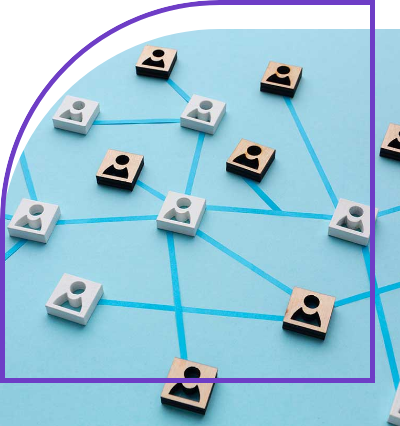
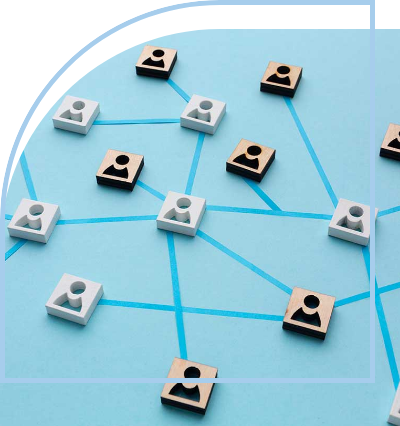
[ADD] Tema 4

Changed region(s): [[0.0, 0.0, 0.96, 0.9155]]

diff --git a/src/views/Tema4.vue b/src/views/Tema4.vue
@@ -11,7 +11,7 @@
       .col-sm-12.col-md-12.col-lg-8(data-aos="zoom-in")
         p Para tener un cliente que siempre esté comprando o consumiendo los productos o servicios de la empresa, esta debe seguir el proceso de atraer y captar para luego fidelizar a los clientes, esta fidelización busca ante todo mantener relaciones duraderas con los clientes. 
         p Promove (2012) indica que la fidelización:
-        .row.bgazulclaro.p-4.mb-4
+        .row.bg-color-9.p-4.mb-4
           .col-1
             i.fas.fa-quote-left.comillamorada
           .col-9
@@ -30,29 +30,29 @@
           template(v-slot:imagen)
             figure
               img(src='@/assets/curso/temas/tema4y5/pc1.png', alt='Texto que describa la imagen')
-          .tarjeta.bgpcmorada.text-white.p-3(x="54%" y="30%" numero="1")
+          .tarjeta.bg-color-10.p-3(x="54%" y="30%" numero="1")
             p.mt-4 Mantener calidad y seriedad en la relación.
-          .tarjeta.bgpcmorada.text-white.p-3(x="74%" y="45%" numero="2")
+          .tarjeta.bg-color-10.p-3(x="74%" y="45%" numero="2")
             p.mt-4 Dar orientación al cliente sobre los procesos, beneficios y ventajas de los productos o servicios.
-          .tarjeta.bgpcmorada.text-white.p-3(x="3%" y="45%" numero="3")
+          .tarjeta.bg-color-10.p-3(x="3%" y="45%" numero="3")
             p.mt-4 Sobre todo, inspirar confianza y respeto en el cliente.
-          .tarjeta.bgpcmorada.text-white.p-3(x="10%" y="25%" numero="4")
+          .tarjeta.bg-color-10.p-3(x="10%" y="25%" numero="4")
             p.mt-4 Mantener una buena impresión en la presentación y movimientos corporales.
-          .tarjeta.bgpcmorada.text-white.p-3(x="42%" y="50%" numero="5")
+          .tarjeta.bg-color-10.p-3(x="42%" y="50%" numero="5")
             p.mt-4 Mantenerse en contacto con ellos.
-          .tarjeta.bgpcmorada.text-white.p-3(x="75%" y="65%" numero="6")
+          .tarjeta.bg-color-10.p-3(x="75%" y="65%" numero="6")
             p.mt-4 Acciones que propicien relaciones duraderas con los clientes.
-          .tarjeta.bgpcmorada.text-white.p-3(x="15%" y="83%" numero="7")
+          .tarjeta.bg-color-10.p-3(x="15%" y="83%" numero="7")
             p.mt-4 Cupones descuento, donde el usuario puede recortar un cupón y obtendrá una rebaja en el precio de algún producto o servicio del establecimiento.
-          .tarjeta.bgpcmorada.text-white.p-3(x="11%" y="67%" numero="8")
+          .tarjeta.bg-color-10.p-3(x="11%" y="67%" numero="8")
             p.mt-4 #[b Programa de puntos]. Tarjeta de puntos redimibles en productos.
-          .tarjeta.bgpcmorada.text-white.p-3(x="30%" y="65%" numero="9")
+          .tarjeta.bg-color-10.p-3(x="30%" y="65%" numero="9")
             p.mt-4 #[b #[em Newsletter]]. Comunicación personalizada a sus correos electrónicos.
-          .tarjeta.bgpcmorada.text-white.p-3(x="30%" y="13%" numero="10")
+          .tarjeta.bg-color-10.p-3(x="30%" y="13%" numero="10")
             p.mt-4 #[b Regalos.] Por cumplir cuotas de compra en un periodo de tiempo.
-          .tarjeta.bgpcmorada.text-white.p-3(x="84%" y="21%" numero="11")
+          .tarjeta.bg-color-10.p-3(x="84%" y="21%" numero="11")
             p.mt-4 #[b Gestión de la relación con el cliente.] Invitar al cliente a participar en alguna actividad o promociones, por ejemplo el madrugón de precios.
-          .tarjeta.bgpcmorada.text-white.p-3(x="90%" y="56%" numero="12")
+          .tarjeta.bg-color-10.p-3(x="90%" y="56%" numero="12")
             p.mt-4 #[b Club de clientes.] Grupos que la empresa organiza, por ejemplo, el club de la pintura reúne a todos los interesados en pintar, reciben cursos y promociones.
 
 </template>

diff --git a/src/styles/_custom.sass b/src/styles/_custom.sass
@@ -359,7 +359,7 @@ figcaption, table caption
 // bloque de texto comillas tema 4
 
 .comillamorada
-  color: #BE79CA
+  color: $color-primario
   font-size: 2.5em
 
 .comillaabajo
